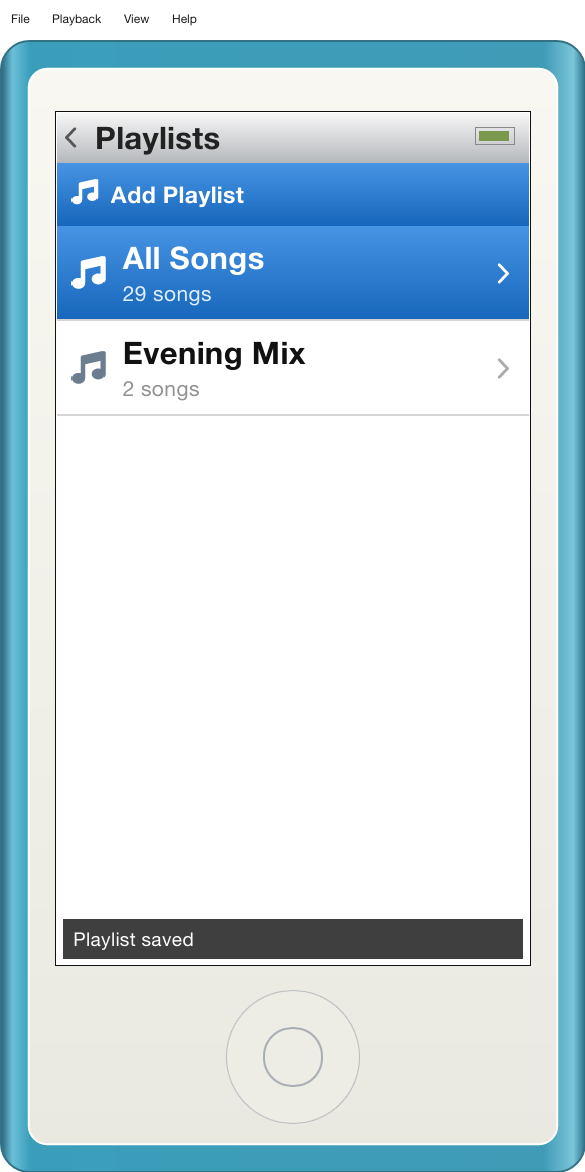
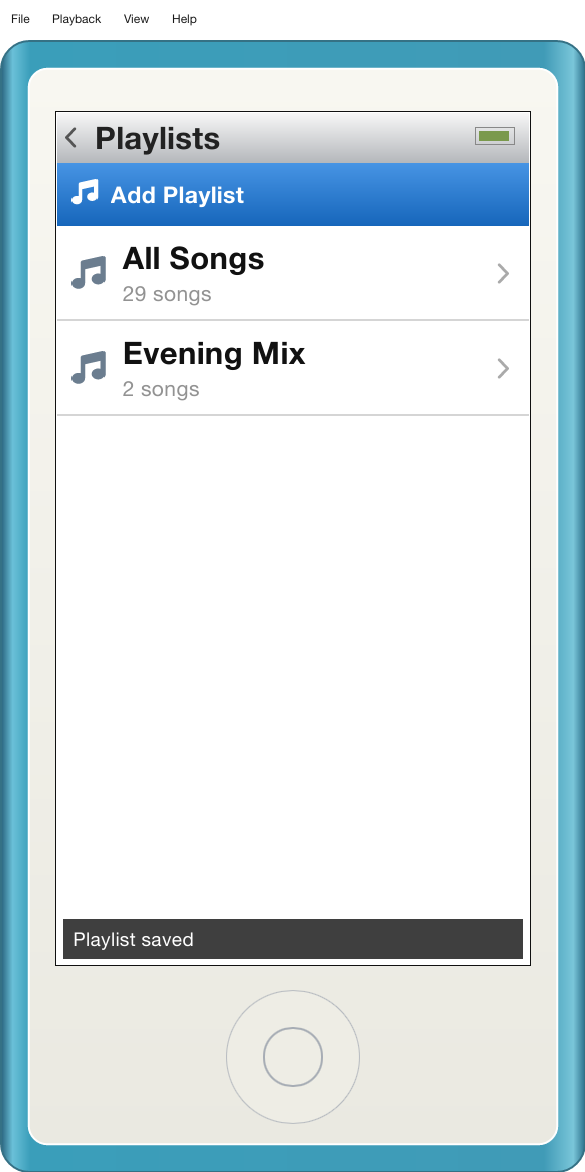
Make Add Playlist keyboard selectable and initialize schema before scanning

Changed region(s): [[0.0923, 0.1843, 0.9231, 0.2765]]

diff --git a/tests/ui.rs b/tests/ui.rs
@@ -1026,6 +1026,37 @@ fn actual_slint_key_capture_search_focus_scroll_and_display_modes() {
     // Opening the parent list renders the compact playlist rows with their note glyph.
     ui.invoke_command("back".into());
     controller.borrow_mut().poll(&ui);
+    // The fixed Add toolbar participates in exactly the same J/K selection as the rows.
+    assert_eq!(ui.get_selected(), 0);
+    assert_eq!(ui.get_rows().row_data(0).unwrap().title, "Add Playlist");
+    tap(&ui, "j");
+    assert_eq!(ui.get_selected(), 1);
+    assert_eq!(ui.get_rows().row_data(1).unwrap().title, "All Songs");
+    tap(&ui, "k");
+    assert_eq!(ui.get_selected(), 0);
+    tap(&ui, Key::Return);
+    assert!(ui.get_playlist_editor_open());
+    tap(&ui, "j");
+    assert_eq!(
+        ui.get_playlist_name(),
+        "j",
+        "keyboard entry starts in the name field"
+    );
+    tap(&ui, Key::Escape);
+    assert!(!ui.get_playlist_editor_open());
+    assert_eq!(
+        controller.borrow().state.queue.current(),
+        queue_before_playlist
+    );
+    click(&ui, 120.0, 42.0); // Add toolbar uses the same semantic row activation.
+    assert!(ui.get_playlist_editor_open());
+    tap(&ui, "k");
+    assert_eq!(
+        ui.get_playlist_name(),
+        "k",
+        "pointer entry keeps name editing focused"
+    );
+    tap(&ui, Key::Escape);
     snapshot(&ui, "playlist-list-preview");
     for language in [
         Language::SimplifiedChinese,
@@ -1033,16 +1064,16 @@ fn actual_slint_key_capture_search_focus_scroll_and_display_modes() {
         Language::English,
     ] {
         choose_language(&ui, &controller, language);
-        assert_eq!(ui.get_rows().row_data(1).unwrap().title, "Evening Mix");
+        assert_eq!(ui.get_rows().row_data(2).unwrap().title, "Evening Mix");
         assert_eq!(
-            ui.get_rows().row_data(1).unwrap().subtitle,
+            ui.get_rows().row_data(2).unwrap().subtitle,
             match language {
                 Language::English => "2 songs",
                 Language::SimplifiedChinese => "2 首歌曲",
                 Language::Japanese => "2 曲",
             }
         );
-        assert_eq!(ui.get_playlist_name(), "Evening Mix");
+        assert_eq!(ui.get_playlist_name(), "k");
         snapshot(&ui, &format!("playlist-list-{}", language.code()));
     }
     tap(&ui, "r");
@@ -1112,7 +1143,7 @@ fn actual_slint_key_capture_search_focus_scroll_and_display_modes() {
     controller.borrow_mut().execute(&ui, Action::Back);
     choose_language(&ui, &controller, Language::SimplifiedChinese);
     assert_eq!(
-        ui.get_rows().row_data(2).unwrap().title,
+        ui.get_rows().row_data(3).unwrap().title,
         "Music",
         "playlist names remain literal even when matching UI keys"
     );

diff --git a/src/app/controller.rs b/src/app/controller.rs
@@ -76,12 +76,18 @@ impl Controller {
                 state.notice = format!("{message}; using default shortcuts");
                 Keymap::default()
             });
-        let loading = Some(thumbnails::load(directory.join("library.sqlite3")));
         let database = directory.join("library.sqlite3");
         let (sender, receiver) = std::sync::mpsc::channel();
+        let (library_sender, library_receiver) = std::sync::mpsc::channel();
         std::thread::spawn(move || {
+            // Migrate before the scanner's large metadata SELECT can hold a read lock.
+            // Both operations remain off the UI thread; a playlist error never blocks music.
             let _ = sender.send(playlists::load(&database));
+            if let Ok(result) = thumbnails::load(database).recv() {
+                let _ = library_sender.send(result);
+            }
         });
+        let loading = Some(library_receiver);
         let romaji_store = romaji::Store::new(directory.join("library.sqlite3"));
         Self {
             state,
@@ -753,7 +759,13 @@ impl Controller {
                     | Screen::Fonts
             ) {
                 let row_height = ui.get_list_row_height();
-                let row_y = self.state.navigation.selected() as f32 * row_height;
+                let playlist_list = *screen == Screen::Groups(Group::Playlists);
+                let row_index = self
+                    .state
+                    .navigation
+                    .selected()
+                    .saturating_sub(usize::from(playlist_list));
+                let row_y = row_index as f32 * row_height;
                 let visible_height = ui.get_list_viewport_height()
                     - if *screen == Screen::Search {
                         44.0 * scale

diff --git a/tests/core.rs b/tests/core.rs
@@ -1625,10 +1625,10 @@ fn saved_playlists_keep_path_order_after_library_merge_and_build_the_correct_que
             .iter()
             .map(|r| r.title.as_str())
             .collect::<Vec<_>>(),
-        ["All Songs", "alpha", "Zulu"]
+        ["Add Playlist", "All Songs", "alpha", "Zulu"]
     );
-    assert_eq!(state.selection_count(), 3);
-    state.navigation.select(2);
+    assert_eq!(state.selection_count(), 4);
+    state.navigation.select(3);
     state.apply(Action::Activate);
     assert!(matches!(
         state.navigation.current().screen,
@@ -1670,4 +1670,31 @@ fn saved_playlists_keep_path_order_after_library_merge_and_build_the_correct_que
         state.apply(Action::NewPlaylist).as_slice(),
         [Effect::NewPlaylist]
     ));
+}
+
+#[test]
+fn playlist_creation_and_all_songs_share_keyboard_selection() {
+    let mut state = music_state();
+    state.navigation.open(Screen::Groups(Group::Playlists));
+    assert_eq!(state.navigation.selected(), 0);
+    assert_eq!(state.selection_count(), 2);
+    assert!(matches!(
+        state.rows()[0].target,
+        Target::Action(Action::NewPlaylist)
+    ));
+    state.apply(Action::SelectNext);
+    assert_eq!(state.navigation.selected(), 1);
+    state.apply(Action::SelectPrevious);
+    assert_eq!(state.navigation.selected(), 0);
+    assert!(matches!(
+        state.apply(Action::Activate).as_slice(),
+        [Effect::NewPlaylist]
+    ));
+    assert_eq!(state.current, None);
+    state.apply(Action::SelectNext);
+    state.apply(Action::Activate);
+    assert_eq!(
+        state.navigation.current().screen,
+        Screen::Songs(Filter::All)
+    );
 }

diff --git a/src/app/state.rs b/src/app/state.rs
@@ -271,12 +271,15 @@ impl State {
             Screen::Groups(Group::Playlists) => {
                 let mut playlists: Vec<_> = self.playlists.iter().collect();
                 playlists.sort_by_cached_key(|p| (p.name.to_lowercase(), p.name.clone(), p.id));
-                let mut rows = vec![Row {
-                    title: "All Songs".into(),
-                    subtitle: format!("{} songs", self.tracks.len()),
-                    artwork_id: None,
-                    target: Target::Screen(Screen::Songs(Filter::All)),
-                }];
+                let mut rows = vec![
+                    row("Add Playlist", Target::Action(Action::NewPlaylist)),
+                    Row {
+                        title: "All Songs".into(),
+                        subtitle: format!("{} songs", self.tracks.len()),
+                        artwork_id: None,
+                        target: Target::Screen(Screen::Songs(Filter::All)),
+                    },
+                ];
                 rows.extend(playlists.into_iter().map(|playlist| Row {
                     title: playlist.name.clone(),
                     subtitle: format!("{} songs", playlist.tracks.len()),
@@ -472,7 +475,7 @@ impl State {
                 }
             }
             Screen::NowPlaying => 7,
-            Screen::Groups(Group::Playlists) => 1 + self.playlists.len(),
+            Screen::Groups(Group::Playlists) => 2 + self.playlists.len(),
             Screen::Groups(group) => self
                 .tracks
                 .iter()

diff --git a/docs/IMPLEMENTATION_PLAN.md b/docs/IMPLEMENTATION_PLAN.md
@@ -73,11 +73,11 @@ Acceptance: default/new/old config pins the window, off/on persists across contr
 
 Re-rendered and inspected manual page 22: compact Playlists title, blue Add toolbar and separated name/song-count rows. Connect the existing name/select/review editor to the actual music library and transactional SQLite storage. Keep All Songs available; list saved playlists by deterministic case-insensitive name and retain user-selected order inside each playlist. Use paths and stable playlist IDs rather than transient library indices. Add through Music → Playlists → Add Playlist or File → New Playlist; naming is a desktop extension to the manual's Add/Done flow. Preserve current playback while drafting and saving.
 
-Acceptance: select/deselect, reorder/remove, keyboard/text focus isolation, valid Create saves then opens the playlist, cancellation never writes, invalid/duplicate names and storage failures retain the draft, empty/loading library states are accurate, restarted app restores names and order, audio paths absent from the current library remain stored and are skipped when resolving playlist rows. Database loading/writing runs off the UI thread; save controls lock until completion. Verify persisted playlist playback queue order, languages, rendered list/picker/review against the manual, formatting/check/tests/strict lint. Commit, rebuild and launch. Video implementation is delegated to the user-requested separate chat and must avoid these shared files until playlist integration is complete.
+Acceptance: select/deselect, reorder/remove, keyboard/text focus isolation, valid Create saves then opens the playlist, cancellation never writes, invalid/duplicate names and storage failures retain the draft, empty/loading library states are accurate, restarted app restores names and order, audio paths absent from the current library remain stored and are skipped when resolving playlist rows. Database loading/writing runs off the UI thread; save controls lock until completion. Verify persisted playlist playback queue order, languages, rendered list/picker/review against the manual, formatting/check/tests/strict lint. Follow-up: include Add Playlist in the same keyboard selection model above All Songs, with J/K and Enter and matching pointer activation. Native first-run inspection found the 198 MB existing cache lacked playlist tables; migration succeeded on a backup, indicating schema-write contention with the concurrently started scanner. Initialize/load playlists before starting the heavy metadata scan, without blocking the UI. Commit, rebuild and launch. Video implementation is delegated to the user-requested separate chat and must avoid these shared files until playlist integration is complete.
 
 ## Verification log and blockers
 
-- Live playlist integration: formatting, compilation, all 109 tests (three manual profiles ignored), strict all-target Clippy and whitespace checks pass. Rendered tests exercise real library selection/deselection, reorder/remove, modal keyboard isolation, saving lock, cancellation, duplicate/invalid names, injected database failure retaining the draft, retry and controller restart. State tests verify saved order and queue resolution after a library refresh. English/Chinese/Japanese song counts translate while names remain literal, including a playlist named Music. Loading and empty-library prompts are distinct. Inspected the final list, picker and ordered review captures; previews use a temporary fixture database. Native packaging/launch is the remaining delivery step.
+- Live playlist integration: formatting, compilation, all 110 tests (three manual profiles ignored), strict all-target Clippy and whitespace checks pass. Rendered tests exercise real library selection/deselection, reorder/remove, modal keyboard isolation, saving lock, cancellation, duplicate/invalid names, injected database failure retaining the draft, retry and controller restart. State tests verify saved order and queue resolution after a library refresh. English/Chinese/Japanese song counts translate while names remain literal, including a playlist named Music. Loading and empty-library prompts are distinct. Inspected the final list, picker and ordered review captures; previews use a temporary fixture database. A follow-up core regression and rendered J/K → Add → Enter/pointer activation checks pass, including immediate name typing without triggering navigation. Add is the sole initial selection, All Songs is reached by J, and K returns to Add; row scrolling accounts for the fixed toolbar. Final targeted UI tests, formatting, compilation and strict all-target lint pass after the focus fix. Native packaging/relaunch remains the delivery step.
 
 - Live playlist storage: four SQLite tests and strict targeted Clippy pass. New tables preserve existing tracks, lyrics and romaji; ordered Unicode paths and names survive reload, duplicate names/invalid input reject, missing files remain recorded, and an injected mid-transaction failure rolls back without a partial playlist. Storage foundation committed as `76ad542`.
 

diff --git a/docs/GENIUS_ROMAJI_UI.md b/docs/GENIUS_ROMAJI_UI.md
@@ -26,11 +26,11 @@ Genius is an interface demonstration only. The future engine, analysis, and Geni
 
 ## Phase 3 — Manual playlist creation (live integration)
 
-Music → Playlists uses the compact title, blue Add toolbar and separated name/song-count rows from manual page 22. Add Playlist and File → New Playlist use the central semantic action. The editor accepts a name, shows alphabetically sorted actual library songs and checkboxes, and reviews the user's selection order. Move Up/Move Down and Remove update the live draft. Interface labels and song counts translate; playlist names and metadata remain literal.
+Music → Playlists uses the compact title, blue Add toolbar and separated name/song-count rows from manual page 22. Add Playlist and File → New Playlist use the central semantic action. Add occupies keyboard selection zero above All Songs; J/K reaches it and Enter activates it, with a single visible selection. The editor accepts a name, shows alphabetically sorted actual library songs and checkboxes, and reviews the user's selection order. Move Up/Move Down and Remove update the live draft. Interface labels and song counts translate; playlist names and metadata remain literal.
 
 J/K or arrows browse while the name field is unfocused; Space selects songs. Enter leaves name editing, opens review or creates as appropriate; H/Left/Escape returns to selection then cancels. Underlying playback/romaji shortcuts are isolated. Music playback continues while drafting. Loading and empty-library states have distinct prompts. A frozen lightweight title/artist/path snapshot avoids decoding covers or copying artwork into the editor.
 
-Create validates a trimmed single-line name of at most 100 characters and at least one existing selected library file. Names are unique by Unicode lowercase key. A background worker saves paths in order inside one SQLite transaction. Controls lock while saving. Success closes the editor and opens the saved playlist; failures show a localized message and preserve the name/selection/order for retry. Cancellation never writes. Application shutdown waits for an explicit Create write to finish.
+Create validates a trimmed single-line name of at most 100 characters and at least one existing selected library file. Names are unique by Unicode lowercase key. A background worker saves paths in order inside one SQLite transaction. Startup initializes/loads the playlist schema before launching the large library metadata read, avoiding schema-write contention; both run off the UI thread. Controls lock while saving. Success closes the editor and opens the saved playlist; failures show a localized message and preserve the name/selection/order for retry. Cancellation never writes. Application shutdown waits for an explicit Create write to finish.
 
 ### Playlist model and storage
 
@@ -38,7 +38,7 @@ Create validates a trimmed single-line name of at most 100 characters and at lea
 
 The `playlists` and `playlist_tracks` tables coexist with the existing tracks/lyrics/romaji tables. Ordered paths and stable playlist IDs survive restart; metadata/library indices can change without changing identity. Saved playlists list alphabetically, while their song screens and playback queues preserve the saved order. Paths absent from the current music library stay stored and are skipped in the visible playable rows. All Songs remains available. No playlist editing/deletion or iTunes synchronization is claimed in this creation milestone.
 
-Storage tests cover old tables, Unicode/order/restart, missing files, duplicate names, validation and transaction rollback. State tests cover sorting and queue order after metadata refresh. Controller/rendered UI checks cover selection, name input, reorder/remove, cancellation, failure/retry, save/restart and the three interface languages. All 109 combined tests pass (three manual profiles ignored), along with formatting, compilation and strict all-target Clippy. Inspected the final list, picker and review previews in `docs/previews/playlist-list.png`, `playlist-selection.png` and `playlist-review.png`. Previews are test-fixture captures, separate from the user's library. Real Genius recommendations and saving Genius example rows remain unconnected.
+Storage tests cover old tables, Unicode/order/restart, missing files, duplicate names, validation and transaction rollback. State tests cover sorting and queue order after metadata refresh. Controller/rendered UI checks cover selection, name input, reorder/remove, cancellation, failure/retry, save/restart and the three interface languages. All 110 combined tests pass (three manual profiles ignored), along with formatting, compilation and strict all-target Clippy. Inspected the final list, picker and review previews in `docs/previews/playlist-list.png`, `playlist-selection.png` and `playlist-review.png`. Previews are test-fixture captures, separate from the user's library. Real Genius recommendations and saving Genius example rows remain unconnected.
 
 ## Shortcut refinement
 

diff --git a/README.md b/README.md
@@ -62,7 +62,7 @@ Genius currently has an explicitly labeled interface preview with example songs.
 
 ## Playlists
 
-Open **Music → Playlists → Add Playlist** or **File → New Playlist…**. Enter a name, press Enter to leave the name field, and select songs with checkboxes or **J/K + Space**. Choose Review, arrange the order with Move Up/Move Down or Remove, then Create. Saved playlists appear in Music → Playlists and survive restarts; their playback queue follows your chosen order. Cancel leaves the library and playback unchanged. Saving happens in the background; a failed save retains the draft for retry.
+Open **Music → Playlists → Add Playlist** or **File → New Playlist…**. The Add Playlist entry participates in J/K navigation above All Songs; press Enter to open it. Enter a name, press Enter to leave the name field, and select songs with checkboxes or **J/K + Space**. Choose Review, arrange the order with Move Up/Move Down or Remove, then Create. Saved playlists appear in Music → Playlists and survive restarts; their playback queue follows your chosen order. Cancel leaves the library and playback unchanged. Saving happens in the background; a failed save retains the draft for retry.
 
 Names must be nonempty, single-line and at most 100 characters; duplicate names are rejected regardless of case. Missing paths remain stored and songs absent from the current library are skipped. Editing/deleting saved playlists and iTunes synchronization are not included yet.
 
